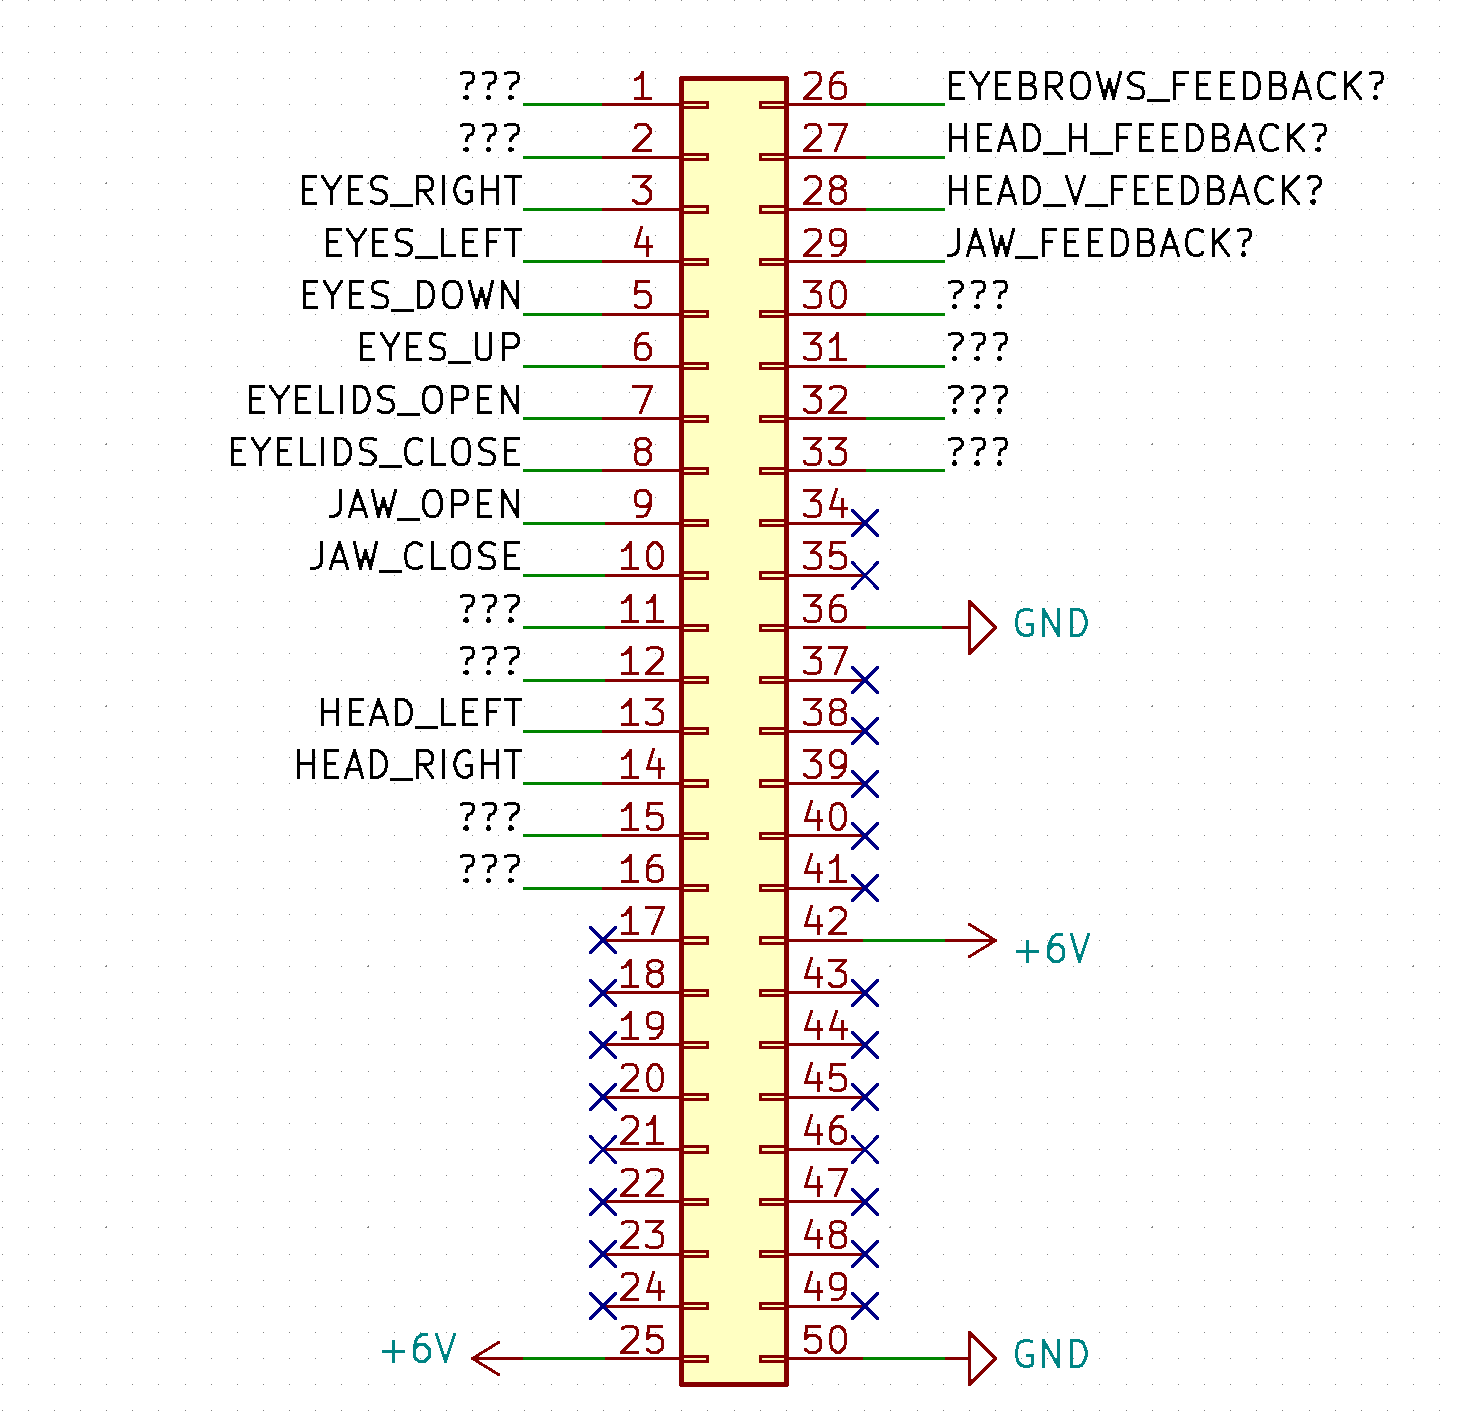
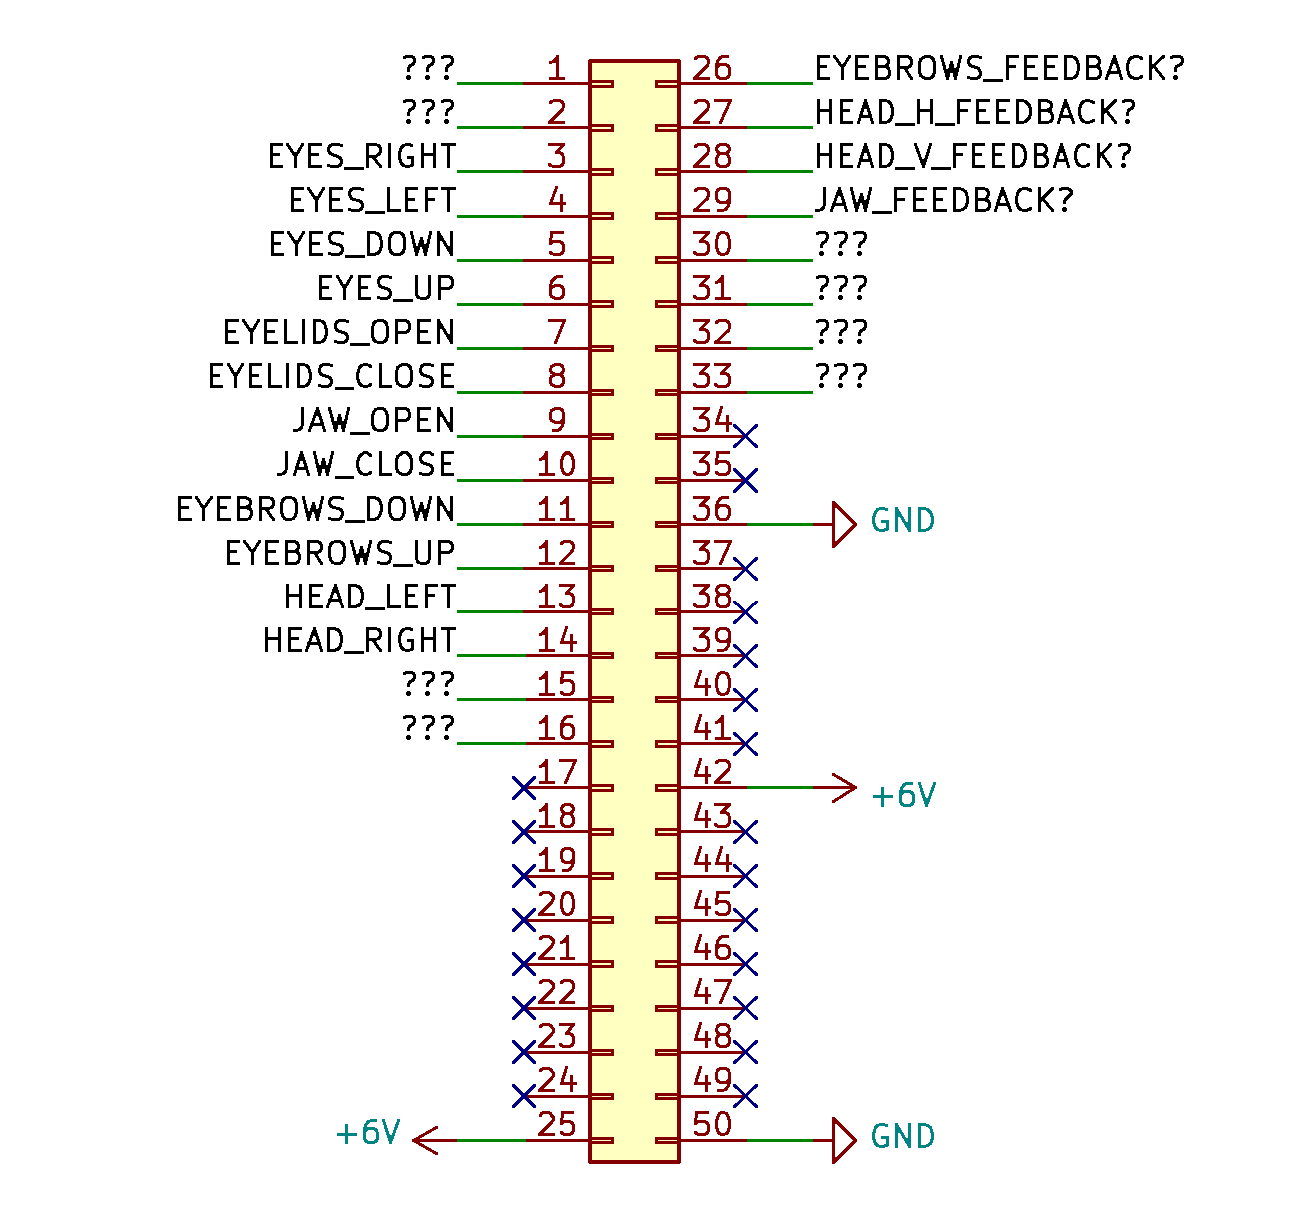
Added pin mapping between arduino and chimp.

Changed region(s): [[0.1247, 0.0306, 0.9354, 0.9785], [0.2494, 0.9174, 0.343, 0.9785]]

diff --git a/report.tex b/report.tex
@@ -192,6 +192,38 @@ A simple firmware package was designed using the Arduino IDE to provide basic mo
 It is written in C and C++ and provides a serial interface to a PC or other device. 
 It does not attempt to operate the h-bridges that are faulty (however this can be enabled easily).
 
+The firmware expects the following connections between the Arduino Mega and the chimpanzee pin header:
+
+\begin{table}[h]
+	\caption{The expected pin mapping between the Arduino and the chimpanzee.}
+	\centering
+	\begin{tabular}{ |c|c|c| }
+		\hline
+		\textbf{Signal} & \textbf{Arduino Pin} & \textbf{Chimp Pin} \\
+		\hline
+		??? & 22 & 1 \\
+		??? & 23 & 2 \\
+		Eyes Right & 24 & 3 \\
+		Eyes Left & 25 & 4 \\
+		Eyes Down & 26 & 5 \\
+		Eyes Up & 27 & 6\\
+		Eyelids Open & 28 & 7 \\
+		Eyelids Close & 29 & 8 \\
+		Jaw Open & 30 & 9 \\
+		Jaw Close & 31 & 10 \\
+		Eyebrows Down & 32 & 11 \\
+		Eyebrows Up & 33 & 12 \\
+		Head Left & 34 & 13 \\
+		Head Right & 35 & 14\\
+		??? & 36 & 15 \\
+		??? & 37 & 16 \\
+		Ground & GND & 36 \\
+		\hline
+	\end{tabular}
+	\label{tab:pinmap}
+\end{table}
+
+
 \subsection{Software}
 
 A simple API for interacting with the firmware via a serial connection on a host PC is provided.
